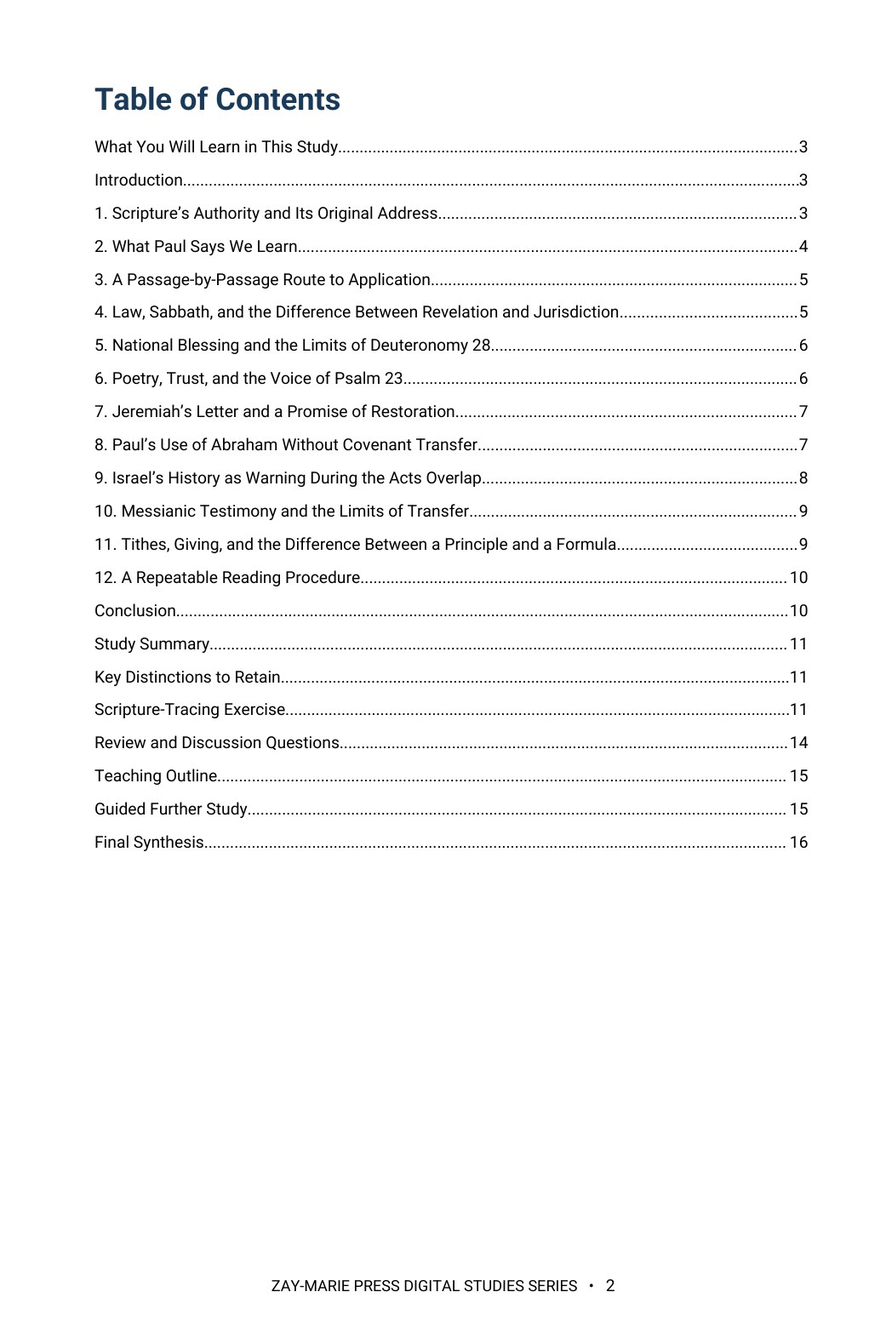
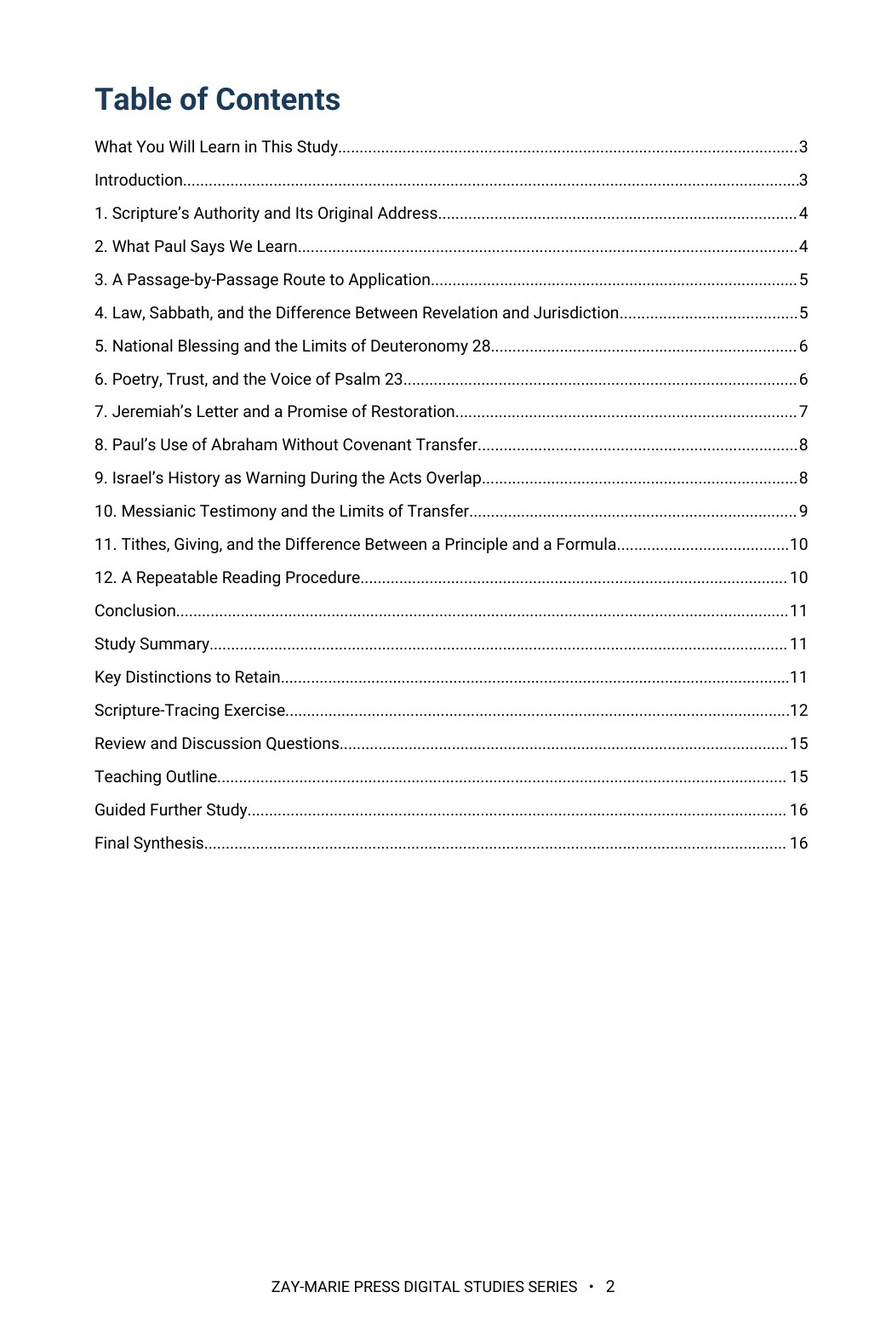
Study 39 retrofit: previews 2, 3, 5, trackers v1.23 / PAM audit v1.116
Claude-Session: https://claude.ai/code/session_01KcENxFzE91mCRyTPWhcwnE

diff --git a/CLAUDE.md b/CLAUDE.md
@@ -18,7 +18,7 @@ These are kept in the repo at `controlling-documents/` and are the current versi
 - **`controlling-documents/Zay-Marie_Press_Digital_Studies_Master_Standard_v1.45.pdf`** — Master Standard v1.45 (an editable `.docx` copy sits beside the PDF). Governs study structure, cover, PDF assembly, website package and publication (includes §16 Individual Study Preview Selection Standard). §16 fixes the preview set at exactly three pages: Table of Contents, What You Will Learn, and one further page of real substance that does not give away the study's thesis. As of v1.19, §2 (Forward Cover System) adds a Cover Art Brief step: Claude drafts a detailed written cover art description (image concept, composition, palette, lighting, symbolic content) for the publisher to hand to the illustrator, before the illustrator produces artwork — see Approval Checkpoint 3 below. As of v1.20, §6 (Body-Content Standard) fixes exact interior spacing values: body paragraphs 6pt space-after / 0pt space-before / 1.08 line spacing; Heading 1 14pt space-before / 8pt space-after; Heading 2 10pt space-before / 5pt space-after. As of v1.21, §9 (Content-Depth and Page-Length Standard) fixes the substantive-interior page count at exactly 15 pages, replacing the prior 13–17 page range; matching references updated in the Page-Count Control note (§3) and Stages 2 and 4 of the Study Development and Approval Workflow (§14). As of v1.22, §18 (About This Study — Related-Study Distinction Standard, originally added as §17 and renumbered by v1.24) requires a second paragraph in every study's About This Study section, placed before the "How These Studies Relate" box: it names the specific neighbouring studies a reader might confuse this one with, states what ground each one covers that this study doesn't (or vice versa), and closes with the single narrower question this study alone answers — see the "About This Study" bullet below. Governs new studies going forward; existing studies get it when reopened or when the publisher directs a retrofit. As of v1.23, §13 (Tables Symbols and Contrast Standard) changes the table-header treatment from dark navy to Slate Blue (#3B6E91) with high-contrast light text retained; the border-color cross-reference in the same section is updated to match. Applies to all studies going forward. As of v1.24, new §17 (Preview-Page Interpretive-Outcome Standard) codifies the publisher's 2026-09-28 preview-page conclusion-spoiler directive (see the section below) as a Master Standard requirement: preview pages must state interpretive outcomes and name the textual markers the reader will trace, never the study's doctrinal conclusion. Adding it renumbered the former §17/§18/§19 to §18 (About This Study), §19 (Locked Status), and §20 (Version History). As of v1.25 (publisher directive, 2026-09-28), §5 (Table of Contents Standard) requires Arabic numerals only — Roman numerals are never used in a Table of Contents — and a single flat list on one left-aligned axis: What You Will Learn in This Study, Introduction, the teaching sections numbered exactly as in the body, then Conclusion through Final Synthesis; Study Goal and Study Outline are not TOC entries. As of v1.26 and v1.27 (publisher directive, 2026-09-30), §8 (renamed Color and Typography Control) carries the Interior Typeface Standard: every Digital Study interior and Doctrinal Packet, headings included, is set in **Roboto** in four true faces (Regular, Italic, Bold, Bold Italic; static files; lining numerals), with no other or fallback font embedded. v1.26 first specified EB Garamond; the publisher replaced it with Roboto in v1.27 after a Study 2 test build. It applies to all studies past, present and future, and to Doctrinal Packets; Stages 3 and 4 of §14 require it and a `pdffonts` check. Existing studies move to it when reopened or when the publisher directs. The static Roboto files and the build recipe are in `fonts/` (see `fonts/README.md`); the Framework carries the rule as PAM Rule 6 and a dated Section 4 (continued) entry. The v1.26/v1.27 files were rebuilt from the publisher's v1.13 DOCX (Sections 1–2) plus the v1.25 text. As of v1.28 (publisher directive, 2026-09-30): §4 requires exactly five callouts per study, all boxed (light-blue box, 1 pt dark navy border, bold uppercase navy title; extra source callouts become body paragraphs with a bold run-in lead, wording unchanged); §10 places the copyright notice only in the end imprint, with no front copyright page; §13 makes table body rows plain white under Slate Blue headers. As of v1.29 (publisher directive, 2026-09-30), §5 sets Table of Contents entries at the body-paragraph spacing (6 pt after, 1.08 line spacing) as first shown in Study 5, for studies built from Study 6 forward; Studies 1–5 and 9 keep their current TOC spacing unless reopened. As of v1.30 (publisher directive, 2026-09-30), §6 sets Heading 1 (numbered major sections) at 12 pt space-before and 8 pt space-after, replacing 14 pt space-before, as compared side by side on Study 6 page 5; it applies to studies built from Study 6 forward, and Studies 1–5 and 9 (built at 14 pt) are not reopened for it. Heading 2 (10/5) and body paragraphs (6 pt after, 1.08) are unchanged. As of v1.31 (publisher directive, 2026-10-01), new §19 (Catalog Category Standard) fixes the five catalog categories, the ordered decision procedure, the precedents, the 71 final assignments and the cover-label forms (working copy and version history in `controlling-documents/Digital_Studies_Category_Standard_v1.1.md`); Locked Status and Version History moved to §20 and §21. As of v1.32 (publisher directive, 2026-10-01), the upper-right cover label must be the exact name of the study's catalog category (§2 Cover Architecture and §19 Cover Labels); the shortened and legacy labels RIGHT DIVISION, PROPHECY, DOCTRINE, INTERPRETATION and BIBLICAL DOCTRINE are retired and all 71 covers were re-lettered. As of v1.33 (publisher directive, 2026-10-01), new §20 (Doctrinal Drafting Standard) carries PAM Rules 7–10 from the Framework so settled rulings are applied without being asked again: identity wording ("the Israel of God" = believing Jews within the Body, Israel by identity; never "believing Israel" alone; never a remnant beside or outside the Body in the present administration; required clarifier "This speaks of identity, not program membership; the remnant is ethnic-covenantal, and believing Jews are gathered into the Body during the Mystery administration"; Gentiles participate spiritually, never called Israel or "spiritual Israel"); the anchoring-sentence rule for books the PAM does not assign (Hebrews, Revelation, James, 1 Peter, 2 John; Philippians, 1 Thessalonians, 2 Timothy; Gal 2:1–10 report-only); standing wording for the Acts divisions, "the 'one taken, one left' passages", Eph 2:14 "abolished for the Body", judgment and related rulings; and the review procedure (conforming wording is applied and noted in one line, and only a new or uncovered passage is reported for a ruling). Locked Status and Version History moved to §21 and §22. As of v1.34 (publisher directive, 2026-10-01), Rule 7 adds the overlap-period rule: Peter's believing company and the circumcision apostleship during Acts 9–28 may be described as continuing under the Prophecy Program only with the clarification "During the overlap, the circumcision apostleship ministers to Israel under the Prophecy Program; believing Jews are gathered into the Body through Paul's ministry, and this speaks of identity, not program membership" (program membership and corporate identity are not the same question; no believing Israelite is placed outside the Body after Acts 9). As of v1.35 (publisher directive, 2026-10-01), §20 adds Rule 11: Paul's fillings, signs and miraculous events in Acts 9–28 are overlap phenomena, reported from the text and not assigned to a single program; they occur in settings shaped by Israel's Prophecy Program, but Paul's participation does not convert them into Prophecy Program content or make them Mystery content (standing wording: "These are recorded in settings shaped by Israel's Prophecy Program, which remained operative throughout Acts 9–28 even as the Mystery Program began. Acts 9–28 is the overlap; where Paul or his companions are the ones filled or working signs, the study reports the text and does not assign the event to a single program."; Acts table column title "The Spirit's Activity Recorded in Acts"; speaker identity is not program identity, and historical participation is not doctrinal obligation). Rule 10 refers to Rules 1–9 and 11. As of v1.36 (publisher directive, 2026-10-01), §20 adds Rule 12: where the PAM does not assign a book or passage, the study may use the text for universal doctrinal truth without assigning the book to a program, and must include the anchoring sentence "The Framework does not assign this book; this reading rests on the passage's own audience markers and setting." (it extends Rule 8 to unassigned books and passages Rule 8 does not name); Rule 10 refers to Rules 1–9, 11 and 12. As of v1.45 (publisher directive, 2026-10-02), §20 Rules 8, 12 and 14 carry the **reader-facing wording rule, extended**: internal working terms never appear in reader-facing text. The Framework, the PAM (Program Assignment Manual), the Master Standard, rule numbers, standing sentences, anchoring sentences, review notes, audit trackers, "firewall" and every similar working term are never named, cited or alluded to in study text, website copy or Doctrinal Packets. The Rule 8 and Rule 12 anchor sentences and the Hebrews sentence are replaced by reader-facing forms: for a book, "This reading rests on the letter's own audience markers and setting."; for a passage, "This reading rests on the passage's own audience markers and setting." (plural "these passages … the passages' own audience markers and setting"); the Hebrews sentence becomes "This reading rests on the letter's own audience markers and on the covenant it quotes (Jeremiah 31:31–34), which belongs to the house of Israel and the house of Judah, the Body benefiting from Christ's blood without being the covenant party." Whether a line is needed is still decided by the reviewer's classification (book not assigned or listed; passage in a PAM-assigned book with no PAM entry; other Rule 12 cases), but the reader sees one sentence and no internal term. The v1.44 "The Framework does not assign …" and "The PAM makes no assignment …" wordings are WITHDRAWN and are converted when a study is reopened or in the Wave 5 sweep; first applied to Study 55. Written into the Framework Rules 8, 12 and 14 in the same pass. As of v1.44 (publisher directive, 2026-10-02), §20 Rule 12 adds **anchor wording by classification** (superseded by v1.45 for the sentence text) (also written into Framework Rule 12): a book the PAM does not assign or list (Philippians, Hebrews, James, 1 Peter, 2 John) keeps "The Framework does not assign [book] as a book; this reading rests on the letter's own audience markers and setting."; a passage inside a PAM-assigned book (Galatians, Romans, Ephesians, Corinthians, Acts, John, Luke) that has no PAM entry takes "The PAM makes no assignment for this passage; this reading rests on the passage's own audience markers and setting." (plural "these passages" where a line covers several). First applied to Study 51; every study brought through the retrofit is checked for it. As of v1.43 (publisher directive, 2026-10-02), §20 Rule 14 adds the **reader-facing wording rule** (also written into Framework Rule 14): "firewall," "Olive Tree Firewall" and similar control labels are internal drafting terms and never appear in study text, website copy or Doctrinal Packets; studies state the boundaries in plain language (for example "Four boundaries govern the reading:"), and any term a study has not itself introduced and defined is treated the same way. Studies 9, 13, 35 and 36 were corrected on 2026-10-02. As of v1.42 (publisher directive, 2026-10-02), §20 Rule 14 adds the **Romans 11 Strong Firewall** as a standing rule for every Romans 11 treatment in every study (also written into Framework Rule 14): Romans 11 explains prophetic participation, not corporate identity, covenant membership or Mystery formation; the wild branch does not become Israel, enter Israel's covenants or become a natural branch; the olive tree is not the Body; standing triad "Participation is not identity. Blessing is not covenant. Standing is not program membership."; "Identity is fixed by divine program, not by metaphor."; "Salvation has come to the Gentiles" means salvation, not covenant, prophetic identity or Israel's program; four-point governing list (olive tree = prophetic blessing; Romans 11 Gentiles = prophetic participants; wild branches are not Body members; grafting changes participation, not identity); warning line on identity transfer; concurrency close ("Concurrency is operational, not transformational."). Depth: a study that treats Romans 11 at length carries the full firewall in the voice of Study 13 v2 (the reference text); a passing citation carries at least the four-point list and the triad; a mild clarification is not sufficient. Studies 9, 21, 35, 36 and others are brought to it when reopened or when the publisher directs. As of v1.41 (publisher directive, 2026-10-02), Rules 7 and 15 carry two approved standing sentences for the retrofit: overlap — "During the overlap, the circumcision apostleship ministers to Israel under the Prophecy Program, and Paul's gospel forms the Body; the two operate concurrently and never merge, transfer or absorb one another." (replaces the withdrawn "gathered into the Body" sentence); Galatians 3 — "The seed is prophetic fulfillment in Christ; the Body receives blessing through Christ alone, not through participation in the Abrahamic covenant." (replaces all older Abrahamic-participation language). As of v1.40 (publisher directive, 2026-10-02), Rules 7 and 17 add the ruling that a Jewish member of the Body is not Israel: Body by identity, new creation by ontology, non-Israel by corporate identity, non-prophetic by program membership, non-covenantal by blessing structure, heavenly by destiny; ethnicity is a historical fact with no covenantal or programmatic force once a person is in the Body. The Rule 7 line "Israel remains Israel; the ethnic distinction is kept" is replaced by "Israel remains Israel, and the Body is not Israel"; the Framework identity sections (§V, PAM definition 2) carry it too. As of v1.39 (publisher directive, 2026-10-02), §20 adds Rule 17 (The remnant and the Body during Acts 9–28), also written into the Framework §XIX: the remnant never becomes the Body and stays outside the Body, the Mystery Program, the heavenly calling and Pauline identity; the Body is formed only by Paul's gospel from Acts 9, is gathered in on belief and is not Israel or the remnant; no shared identity, membership, covenant, gospel, hope, Spirit ministry or destiny; the standing summary sentence ("During Acts 9–28, the remnant remains Israel's prophetic believing company, and the Body remains the Mystery new creation. They coexist historically but never merge in identity, membership, calling, covenant, gospel, hope, or destiny. Concurrency is operational, not transformational.") and the one-sentence relationship rule are used wherever the relationship is stated; Rule 10 now reads "Rules 1–9 and 11–17". As of v1.38 (publisher directive, 2026-10-02), §20 (Doctrinal Drafting Standard) is amended and extended to carry the Framework's doctrinal upgrade: Rules 7–10 are rewritten and Rules 13–16 are added (see the Framework entry above for the points and the withdrawn wordings); Rule 10 now reads "Rules 1–9 and 11–16"; Rule 8 no longer lists Revelation as unassigned. As of v1.37 (publisher directive, 2026-10-02), a new "Study 52 Reference Standard" subsection in §6 makes Study 52 (Sonship and Adoption) the **golden standard** for the format, structure and blue/black type balance of every Digital Study from Study 53 forward: navy (#1B3350) only on major-section headings (Roboto Bold 17 pt), callout titles (10 pt bold caps) and the "Study Outline" sub-heading (12 pt bold); everything else black Roboto Regular 9 pt; numbered subsections (1.1, 1.2 …) are body-weight black lines at body spacing, not navy headings (as in Studies 50, 51 and 52); about 1–2% of interior characters navy; the section order, five boxed callouts, KJV tables (Verse / KJV text / What to observe), Scripture-Tracing, Review, Teaching Outline, Guided Further Study, Final Synthesis and single end imprint on a 16-page build. Studies 1–51 are NOT retrofitted and stay as published; build every new study to Study 52's final approved PDF/DOCX as the visual reference, and do not set subsections in navy. The §6 Heading 2 line was clarified (10/5 applies to unnumbered sub-headings such as "Study Outline"). See §22 Version History in the document itself.
 - **`controlling-documents/Digital_Studies_Relationship_Map_v1.39.md`** — records each study's distinct subject, its related studies, the eight priced six-study collections, the Paul's Missionary Journeys cross-reference map, and the five primary catalog categories (currently version 1.39, covers Studies 1–71; update it as new studies publish, bump the version number, rename the file to match, and log the change in its own version-history table — mirroring the Master Standard's `_vX.Y` filename convention). Check a proposed topic against it before recommending or writing a new study. (2026-09-28: the file was missing from this repo despite this note referencing it; replaced from the publisher's copy and bumped v1.15→v1.25 in the same pass. If this note ever again points to a version not present under `controlling-documents/`, ask the publisher for a copy rather than proceeding without the check.)
 - **`controlling-documents/Digital_Studies_Category_Standard_v1.1.md`** — FINAL and binding (publisher, 2026-10-01): the rules for the five primary catalog categories (Foundations, Israel & Prophecy, Body of Christ, Passages, Doctrinal Themes), the ordered decision procedure for new studies, the precedents, all 71 fixed assignments, and the cover-label form for each category. Read it before placing any card or cover label. Do not ask the publisher where a study belongs; apply the procedure and state the result. Only the publisher changes a ruling; then bump this Standard's version and filename, re-letter the cover, and update the Relationship Map.
-- **`controlling-documents/Doctrinal_Upgrade_Retrofit_Plan_v1.22.md`** — working tracker for retrofitting Studies 1–59 to the 2026-10-02 doctrinal upgrade (Framework/PAM v1.1, Master Standard v1.40, Rules 7–17): withdrawn-wording search keys, impact tiers, waves and the per-study method. Read it before continuing the retrofit in any session; update status, bump the version and rename the file as work proceeds.
+- **`controlling-documents/Doctrinal_Upgrade_Retrofit_Plan_v1.23.md`** — working tracker for retrofitting Studies 1–59 to the 2026-10-02 doctrinal upgrade (Framework/PAM v1.1, Master Standard v1.40, Rules 7–17): withdrawn-wording search keys, impact tiers, waves and the per-study method. Read it before continuing the retrofit in any session; update status, bump the version and rename the file as work proceeds.
 - **`controlling-documents/Doctrinal_Packet_Standard_v0.3.md`** — Doctrinal Packet Standard (DRAFT; §7 approved). Governs the separate Doctrinal Packets product strand (5-page interpretive PDFs per Bible book — a print-friendly cover as page 1 plus 4 content pages, $2.99, KJV, pilot: Genesis, live at `packet-genesis.html`, hub `doctrinal-packets.html`; site pages say "5 Pages", cover styles live in `packets.css`, Old Testament blue and New Testament soft pale green, hub listed in Bible order). **Preview rule (publisher directive, 2026-09-29, packets only):** previews show about one page's worth in two cropped views (top of page 1 through the anchor texts; the chart section) — never the exegesis, architecture, Mystery contrast, logic chain, outline, or closing. Master Standard §16/§17 still govern Digital Studies. Bump the version and rename the file as the Standard is finalized.
 - **`controlling-documents/Preview_Page_Spoiler_Retrofit_Audit_v1.4.md`** — working tracker for the Studies 1–60 preview-page conclusion-spoiler retrofit (see the section below). Read it before continuing that audit in any session; update its status fields and changelog, bump the version, and rename the file to match as the audit proceeds — same `_vX.Y` convention as the other controlling documents. As of v1.1, the website-side half was DONE: all 60 studies' "What You'll Study" text was judged against the rule (methodology documented in the file) and 22 points across 11 studies were rewritten and pushed; an unrelated Study 22 content bug (Study 21's content had leaked into it) was also found and fixed. As of v1.2, the publisher supplied Studies 1–60's interior production PDFs and the interior-PDF half was also surveyed (read-only): 10 studies (37, 41, 45, 47, 48, 49, 51, 52, 53, 54) were found to have at least one interior "What You Will Learn" violation, 50 studies were confirmed compliant, and the orphaned `assets/study-45-sanctification-under-grace.docx` (removed from the repo per the publisher in v1.0) was confirmed word-for-word identical to Study 45's actual production interior PDF content. As of v1.3, the publisher supplied editable DOCX sources for all 10 violating studies; all 15 violating points were rewritten and approved, delivered as corrected final PDFs, and — along the way — a second defect was found and fixed (Studies 47 and 48's source DOCX still had an unintegrated cover placeholder despite both being long-published live with real covers; fixed by inserting the existing approved cover art). The website's "What You Will Learn" preview image (`study-NN-page-3.jpg`) was regenerated from the corrected content for all 10 studies and pushed to `main` (commit `cea1859`), verified against a fresh clone. **The website side of this audit is now fully compliant for all 60 studies.** Outstanding: the publisher's purchasable interior PDF files themselves have corrected versions delivered, but distribution to existing purchasers was decided by the publisher on 2026-09-29: silent swap of the files behind the existing downloads, no reissue notice (recorded in the v1.4 changelog entry; the product files are not in this repo).
 

diff --git a/controlling-documents/Doctrinal_Upgrade_Retrofit_Plan_v1.23.md b/controlling-documents/Doctrinal_Upgrade_Retrofit_Plan_v1.23.md
@@ -37,6 +37,7 @@ Working tracker for correcting published studies to the Framework/PAM v1.1, Mast
 | 56 Inheritance | overlap sentence + Gal 3 | DONE 2026-10-02 (v1.18): interior corrected (16 pp, Roboto; no layout change needed). Withdrawn Galatians 3 'participate spiritually' wording (§4) replaced by the standing Galatians 3 sentence; withdrawn clarifier (Ephesians 1, §6) replaced by the Rule 17 sentence; withdrawn overlap sentence replaced by the standing sentence (§8 and §9); Acts 28 'not a transfer' added (§2, §9). Reader-facing anchors for 1 Peter, Hebrews and Colossians (no 'Framework'/'PAM' wording in the text). Ephesians 1:11–14, Romans 8:14–25, Galatians 4:4–7 and Acts 20:32 carry no anchor (not used for a universal claim). Four 'CONTROL' callout titles kept (publisher). Website unchanged (16 pp in site.js and page text; previews 2, 3 and 4 text identical, no re-render). |
 | 57 The Eternal Purpose of God | overlap sentence | DONE 2026-10-02 (v1.19): interior corrected (16 pp, Roboto; no layout change needed). Withdrawn overlap sentence replaced with the standing sentence (§7); Acts 28 'not a transfer' added (Introduction, §7); 2 Timothy anchor converted to the reader-facing form (§1); 'Acts Overlap framework' working term removed (Introduction, third pass); Romans 11 four-point list and triad added (third-pass Investigation). Website text and previews (pp. 2, 3, 7) unchanged; site.js 16 confirmed |
 | 58 What Is a Dispensation? | overlap sentence | DONE 2026-10-02 (v1.20): interior corrected (16 pp, Roboto; no layout change needed). Withdrawn overlap sentence replaced with the standing sentence (§5); Acts 28 'not a transfer' added (Introduction, §5 twice, Investigation); 'this framework' / 'Acts Overlap framework' working terms removed (§3, §5, Study Summary); Colossians anchor added (§4). Website: page-7 preview re-rendered (anchor sentence added on that page); site.js 58:16 added |
+| 39 The Church's Relationship to Israel's Scriptures | Abrahamic/covenant participation + overlap sentence | DONE 2026-10-02 (v1.23): interior corrected (16 pp, Roboto). Withdrawn overlap sentence replaced with the standing sentence and Acts 28 'not abolition and not a transfer' added (§9); 'Gentiles participate spiritually' replaced by the standing Galatians 3 sentence (§8) and 'whole/every covenant term' partial-transfer wording tightened (§8, Study Summary, Key Distinctions table); Romans 11 four-point list and triad added (Introduction); 2 Timothy and Philippians anchors converted and a Colossians anchor added. Sections moved down: TOC updated (7 numbers); 16 pp. Website: previews 2, 3, 5 re-rendered at 1041x1565; site.js 39:16 unchanged |
 | 40 Who Is Abraham's Seed? | Gal 3 / Abrahamic participation (core) | DONE 2026-10-02 (v1.22): interior corrected (16 pp, Roboto). Withdrawn overlap sentence replaced with the standing sentence (Introduction); Romans 11 four-point list and triad added (Introduction); the 'Gentiles participate spiritually / Abrahamic heirship, benefit, inheritance, connection' family replaced with the standing Galatians 3 sentence and plain wording (§6, §8, §10, Study Summary, Key Distinctions table); Romans 4 'participate in promise' and Teaching Outline 'share that benefit' reworded. Sections moved down: TOC updated (Conclusion p10, Scripture-Tracing p11, Guided Further Study p16); 16 pp. Website: preview pages 2, 3 and 4 re-rendered; site.js 40:16 unchanged |
 | 52 Sonship and Adoption | Gal 3 / Abrahamic participation | DONE 2026-10-02 (v1.21): interior corrected (16 pp, Roboto). Withdrawn Galatians 3:26–29 'Gentiles participate spiritually / ethnic distinction is kept' wording replaced by the standing Galatians 3 sentence (3.4) and the 'participation in the seed is spiritual' line reworded; Study 40 pointer parenthetical removed; nine 'The Framework does not assign…' anchors and the Hebrews sentence converted to the reader-facing forms; Romans 11 four-point list and triad added (Group 3). Shorter anchors moved sections up a page, so TOC numbers updated (§5 p9, §6 p11, Conclusion p12, etc.); total still 16 pp. Website: page-2 (TOC) preview re-rendered; pages 3 and 5 unchanged |
 ### Tier 2 — Galatians 3 / Abrahamic participation wording
@@ -89,3 +90,4 @@ Working tracker for correcting published studies to the Framework/PAM v1.1, Mast
 - v1.20 (2026-10-02): Study 58 retrofit complete (see row); Wave 2 complete. Next: Wave 3 (Study 52 first, sources on hand). Note: site.js digitalStudyPageCounts had no entries for 57 and 58 (both added, 16); 59 and 60 are still absent and are to be checked in the Wave 5 sweep.
 - v1.21 (2026-10-02): Study 52 retrofit complete (see row). Next: Study 40 (Who Is Abraham's Seed?), DOCX to come from the publisher; then 39, 17, 12, 21.
 - v1.22 (2026-10-02): Study 40 retrofit complete (see row). Next: Study 39, then 17, 12, 21 (DOCX from the publisher).
+- v1.23 (2026-10-02): Study 39 retrofit complete (see row). Next: Study 17, then 12 and 21 (DOCX from the publisher). Note: Studies 39 and 40 are a narrower page size (432 x 649 pt) than other studies, so their previews are 1041x1565, not 1041x1347; render previews at each study's own aspect.

diff --git a/controlling-documents/Digital_Studies_PAM_Audit_v1.116.md b/controlling-documents/Digital_Studies_PAM_Audit_v1.116.md
@@ -345,3 +345,4 @@ Study 15 PDF not yet supplied. Typography: none of Studies 2, 3, 6, 8 is in EB G
 - v1.113 (2026-10-02): Study 58 retrofitted: withdrawn overlap sentence replaced with the standing sentence (Section 5); Acts 28 'not a transfer' added (Introduction, Section 5, Investigation); 'this framework' / 'Acts Overlap framework' working terms removed from reader text; Colossians anchor added (Section 4, reader-facing form). Review copy 16 pp, Roboto only; page-7 website preview re-rendered.
 - v1.114 (2026-10-02): Study 52 retrofitted: withdrawn Galatians 3:26–29 participation wording replaced by the standing Galatians 3 sentence (3.4); Romans 11:1–2 given the four-point list and triad (Group 3); nine passage/book anchors and the Hebrews sentence converted to reader-facing forms; Study 40 pointer parenthetical removed. Review copy 16 pp, Roboto only; TOC page numbers updated; page-2 website preview re-rendered.
 - v1.115 (2026-10-02): Study 40 retrofitted: withdrawn overlap sentence replaced (Introduction); Romans 11 four-point list and triad added (Introduction); withdrawn 'Gentiles participate spiritually' and Abrahamic heirship/benefit/inheritance/connection wording replaced by the standing Galatians 3 sentence and plain wording (Sections 6, 8, 10, Study Summary, Key Distinctions table); Romans 4 and Teaching Outline participation wording reworded. Review copy 16 pp, Roboto only; TOC numbers updated; preview pages 2, 3 and 4 re-rendered.
+- v1.116 (2026-10-02): Study 39 retrofitted: withdrawn overlap sentence replaced and Acts 28 'not a transfer' added (Section 9); withdrawn 'Gentiles participate spiritually' replaced by the standing Galatians 3 sentence and partial-transfer wording tightened (Section 8, Study Summary, Key Distinctions table); Romans 11 four-point list and triad added (Introduction); 2 Timothy and Philippians anchors converted to reader-facing form and a Colossians anchor added. Review copy 16 pp, Roboto only; TOC numbers updated; previews 2, 3, 5 re-rendered.
